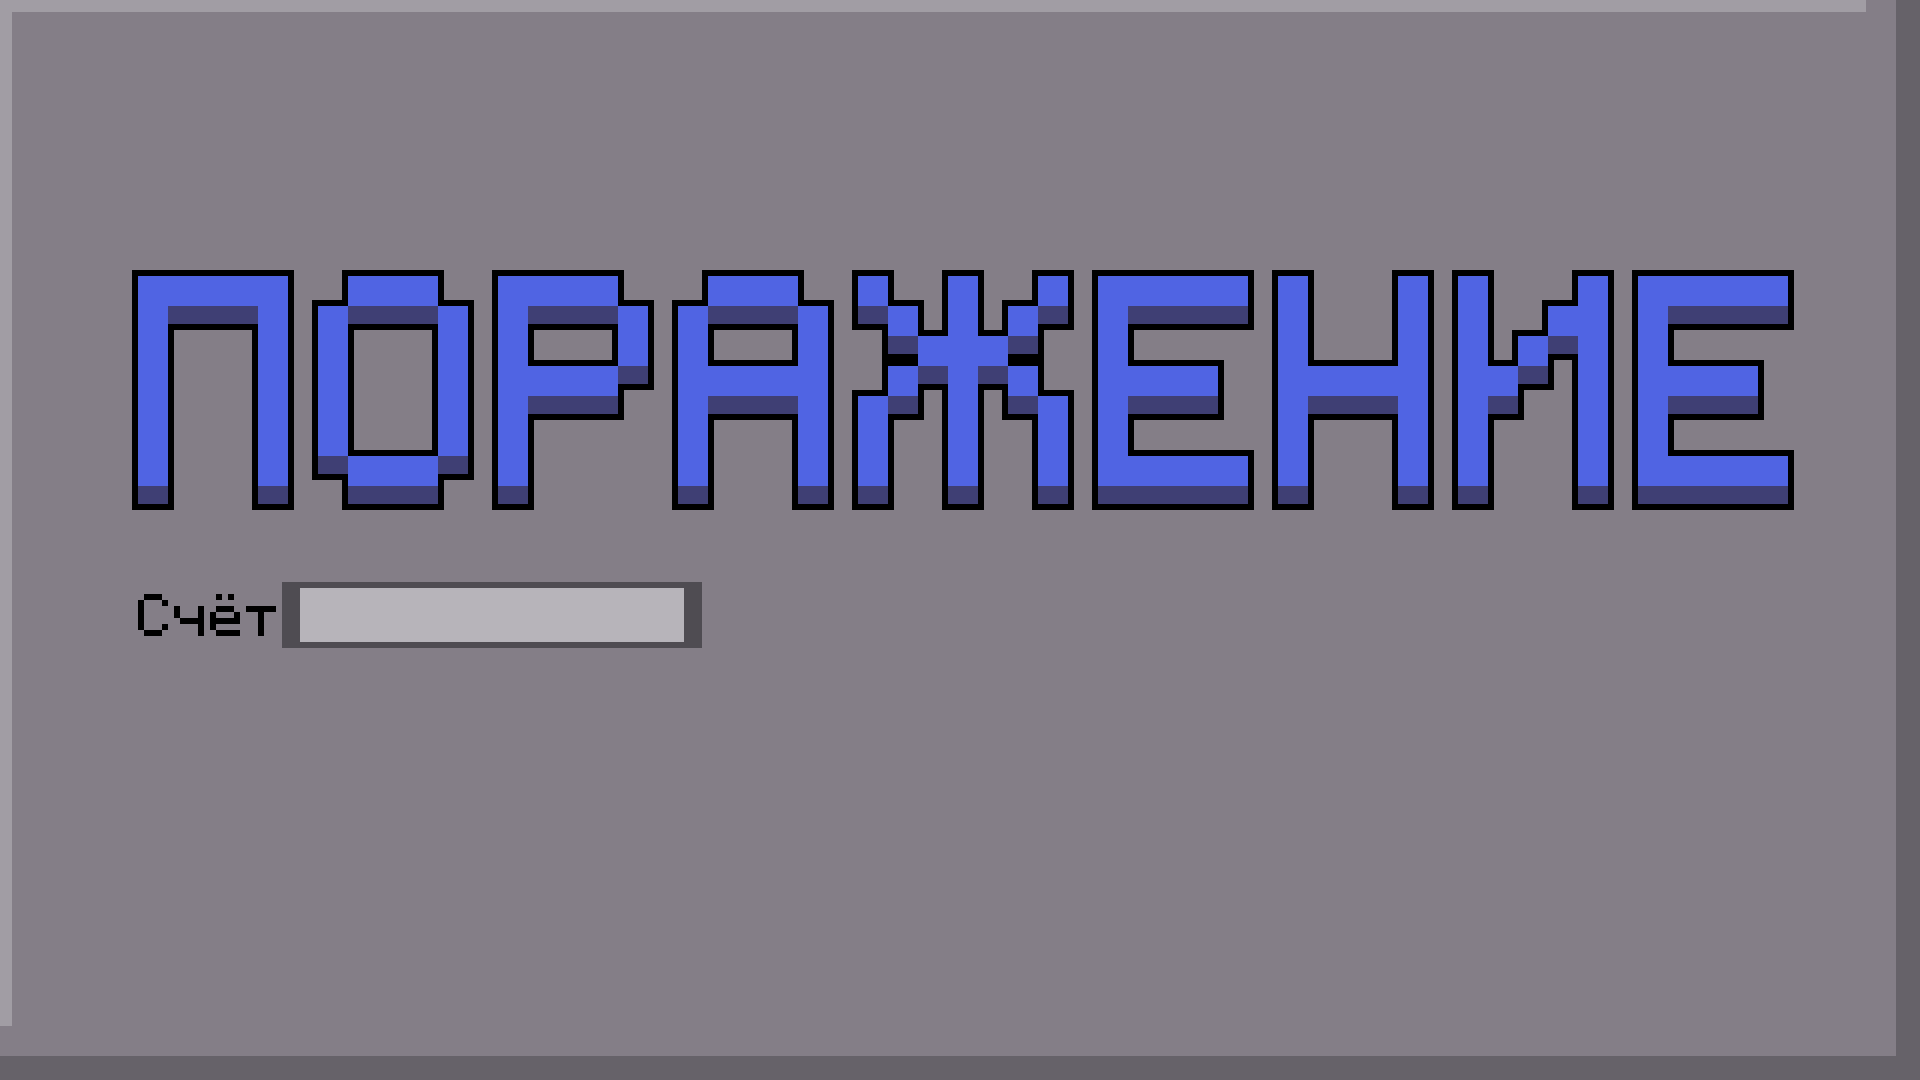
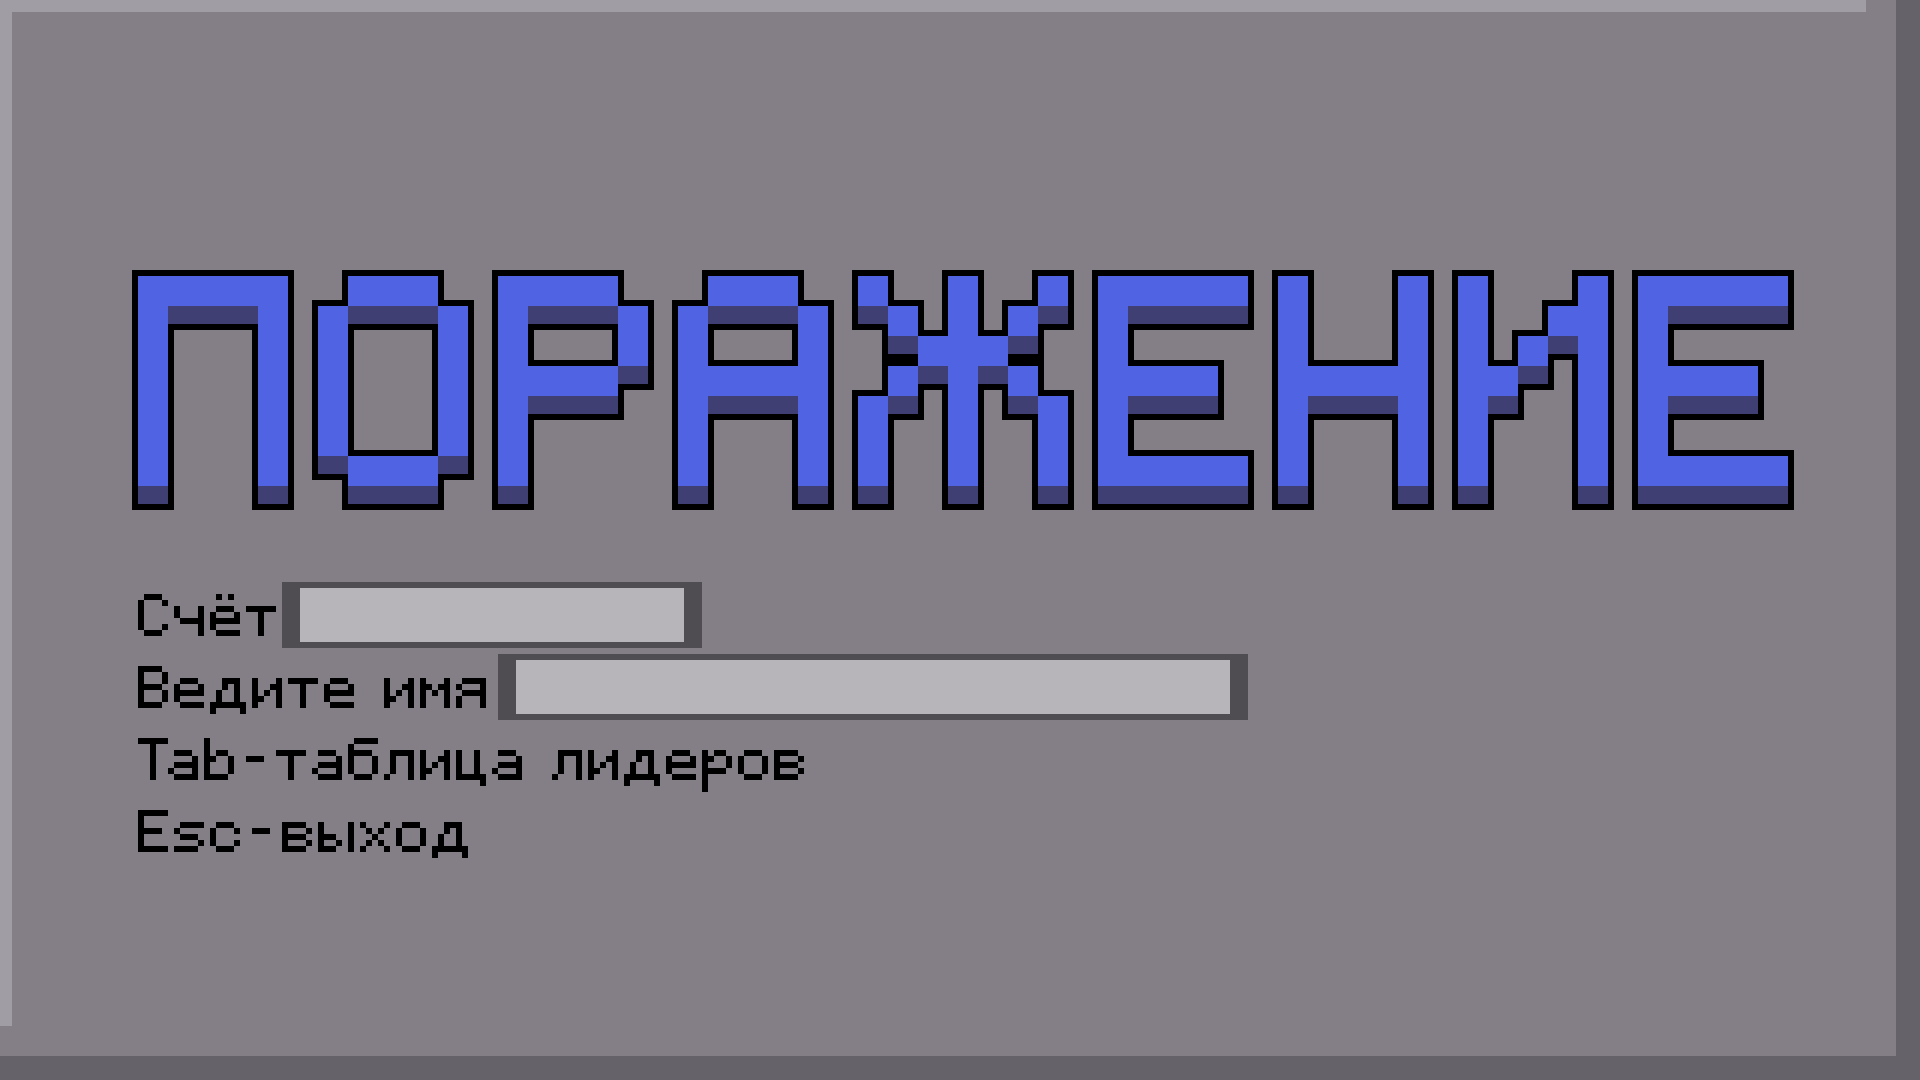
Теперь рестарт работает

Changed region(s): [[0.0625, 0.5806, 0.6562, 0.7944]]

diff --git a/Main.cpp b/Main.cpp
@@ -387,6 +387,14 @@ bool CheckShip(std::vector<std::vector<int>>& grid) {
     return existence;
 }
 
+void ArrowReset(std::vector<std::vector<int>>& grid) {
+    for (int i = 0; i < 10; i++) {
+        for (int j = 0; j < 10; j++) {
+            grid[i][j] = 0;
+        }
+    }
+}
+
 int main(int argc, char* argv[]) {
     // Инициализация SDL и SDL_image
     if (!initSDL()) {
@@ -444,15 +452,14 @@ int main(int argc, char* argv[]) {
     bool Win = false;
     bool Loose = false;
     int currentShip = 0;
+    int cursorX = 0;
+    int cursorY = 0;
 
-    //std::vector<Ship> ships = { Ship(4), Ship(3), Ship(3), Ship(2), Ship(2), Ship(2), Ship(1), Ship(1), Ship(1), Ship(1) };
-    std::vector<Ship> ships = { Ship(1), Ship(1) };
+    std::vector<Ship> ships = { Ship(4), Ship(3), Ship(3), Ship(2), Ship(2), Ship(2), Ship(1), Ship(1), Ship(1), Ship(1) };
+    //std::vector<Ship> ships = { Ship(1), Ship(1) };
     std::vector<std::vector<int>> grid(10, std::vector<int>(10, 0));
 
     std::vector<std::vector<int>> enemy_field(10, std::vector<int>(10, 0));
-
-    int cursorX = 0;
-    int cursorY = 0;
 
     // Основной игровой цикл
     bool running = true;
@@ -512,9 +519,6 @@ int main(int argc, char* argv[]) {
                         if (CheckHandleShooting(enemy_field, cursorX, cursorY)) {
                             if (handleShooting(enemy_field, cursorX, cursorY)) {
                                 printGrid(enemy_field);
-                                /*number_of_shots--;
-                                score = number_of_shots + ChangScore(grid, enemy_field);
-                                break;*/
                             }
                             else {
                                 printGrid(enemy_field);
@@ -531,12 +535,35 @@ int main(int argc, char* argv[]) {
                             }
                         }
                         break;
-                        //score = ChangScore(grid, enemy_field);
-                        /*printGrid(enemy_field);
+                    }
+                }
+                if (Win || Loose) {
+                    
+                    if (event.key.keysym.sym == SDLK_r) {
+                        score = 100;
+                        number_of_shots = 100;
+                        Pause = false;
+                        Placement = true;
+                        Play = false;
                         Player_attack = false;
-                        Enemy_attack = true;
-                        break;*/
-
+                        Enemy_attack = false;
+                        Win = false;
+                        Loose = false;
+                        currentShip = 0;
+                        cursorX = 0;
+                        cursorY = 0;
+                        ArrowReset(grid);
+                        ArrowReset(enemy_field);
+                        std::cout << "rrrrrrrrrrrrrrrrrrrrrrrrrrr" << std::endl;
+                        printGrid(grid);
+                        printGrid(enemy_field);
+                        for (int i = 0; i < 10; i++) {
+                            ships[i].y = 0;
+                            ships[i].x = 0;
+                            if (ships[i].horizontal == false) {
+                                ships[i].rotate();
+                            }
+                        }
                     }
                 }
             }
@@ -560,18 +587,7 @@ int main(int argc, char* argv[]) {
             }
         }
         //SDL_RenderCopy(renderer, background, nullptr, nullptr);
-        // Отрисовка счёта при игре
-        if (Play == true) {
-        SDL_Color textColor = { 0, 0, 0, 255 };
-        SDL_Surface* textSurface = TTF_RenderUTF8_Solid(font, std::to_string(score).c_str(), textColor);
-        SDL_Texture* textTexture = SDL_CreateTextureFromSurface(renderer, textSurface);
-        int textWidth, textHeight;
-        SDL_QueryTexture(textTexture, nullptr, nullptr, &textWidth, &textHeight);
-        SDL_Rect textRect = { WINDOW_WIDTH - 450, 198, textWidth, textHeight };
-        SDL_RenderCopy(renderer, textTexture, nullptr, &textRect);
-        SDL_FreeSurface(textSurface);
-        SDL_DestroyTexture(textTexture);
-        }
+        
         // Вывод текста при размещении
         if (Placement == true)
         {
@@ -607,6 +623,18 @@ int main(int argc, char* argv[]) {
             SDL_FreeSurface(textSurface);
             SDL_DestroyTexture(textTexture); }
         }
+        // Отрисовка счёта при игре
+        if (Play == true) {
+            SDL_Color textColor = { 0, 0, 0, 255 };
+            SDL_Surface* textSurface = TTF_RenderUTF8_Solid(font, std::to_string(score).c_str(), textColor);
+            SDL_Texture* textTexture = SDL_CreateTextureFromSurface(renderer, textSurface);
+            int textWidth, textHeight;
+            SDL_QueryTexture(textTexture, nullptr, nullptr, &textWidth, &textHeight);
+            SDL_Rect textRect = { WINDOW_WIDTH - 450, 198, textWidth, textHeight };
+            SDL_RenderCopy(renderer, textTexture, nullptr, &textRect);
+            SDL_FreeSurface(textSurface);
+            SDL_DestroyTexture(textTexture);
+        }
         // Вывод текста при игре
         if (Play == true)
         {
@@ -631,6 +659,30 @@ int main(int argc, char* argv[]) {
                 SDL_RenderCopy(renderer, textTexture, nullptr, &textRect);
                 SDL_FreeSurface(textSurface);
                 SDL_DestroyTexture(textTexture); }
+        }
+        // Отрисовка счёта при выигрыше
+        if (Win == true) {
+            SDL_Color textColor = { 0, 0, 0, 255 };
+            SDL_Surface* textSurface = TTF_RenderUTF8_Solid(font, std::to_string(score).c_str(), textColor);
+            SDL_Texture* textTexture = SDL_CreateTextureFromSurface(renderer, textSurface);
+            int textWidth, textHeight;
+            SDL_QueryTexture(textTexture, nullptr, nullptr, &textWidth, &textHeight);
+            SDL_Rect textRect = { 582, 594, textWidth, textHeight };
+            SDL_RenderCopy(renderer, textTexture, nullptr, &textRect);
+            SDL_FreeSurface(textSurface);
+            SDL_DestroyTexture(textTexture);
+        }
+        // Отрисовка счёта при проигрыше
+        if (Loose == true) {
+            SDL_Color textColor = { 0, 0, 0, 255 };
+            SDL_Surface* textSurface = TTF_RenderUTF8_Solid(font, std::to_string(score).c_str(), textColor);
+            SDL_Texture* textTexture = SDL_CreateTextureFromSurface(renderer, textSurface);
+            int textWidth, textHeight;
+            SDL_QueryTexture(textTexture, nullptr, nullptr, &textWidth, &textHeight);
+            SDL_Rect textRect = { 306, 594, textWidth, textHeight };
+            SDL_RenderCopy(renderer, textTexture, nullptr, &textRect);
+            SDL_FreeSurface(textSurface);
+            SDL_DestroyTexture(textTexture);
         }
         // Рендер размещённых кораблей
         if (Placement) {
@@ -657,24 +709,7 @@ int main(int argc, char* argv[]) {
             surroundSunkShips(enemy_field);
             Player_fild_render(renderer, grid);
         }
-        //if (Pause) {
-        //    SDL_Delay(1000);
-        //    Pause = false;
-        //}
-        //// Атака опанента
-        //if (Enemy_attack) {
-        //    std::cout << "tut budet atacka" << std::endl;
-        //    if (EnemyAttack(grid)) {
-        //        surroundSunkShips(grid);
-        //        Pause = true;
-        //    }
-        //    else {
-        //        surroundSunkShips(grid);
-        //        Player_attack = true;
-        //        Enemy_attack = false;
-        //    }
-        //}
-
+        
         // Обновление экрана
         SDL_RenderPresent(renderer);
 
@@ -702,12 +737,6 @@ int main(int argc, char* argv[]) {
                 Enemy_attack = false;
             }
         }
-        /*if (Win) {
-            std::cout << "Win" << std::endl;
-        }
-        if (Loose) {
-            std::cout << "Loose" << std::endl;
-        }*/
     }
 
     // Очистка ресурсов
